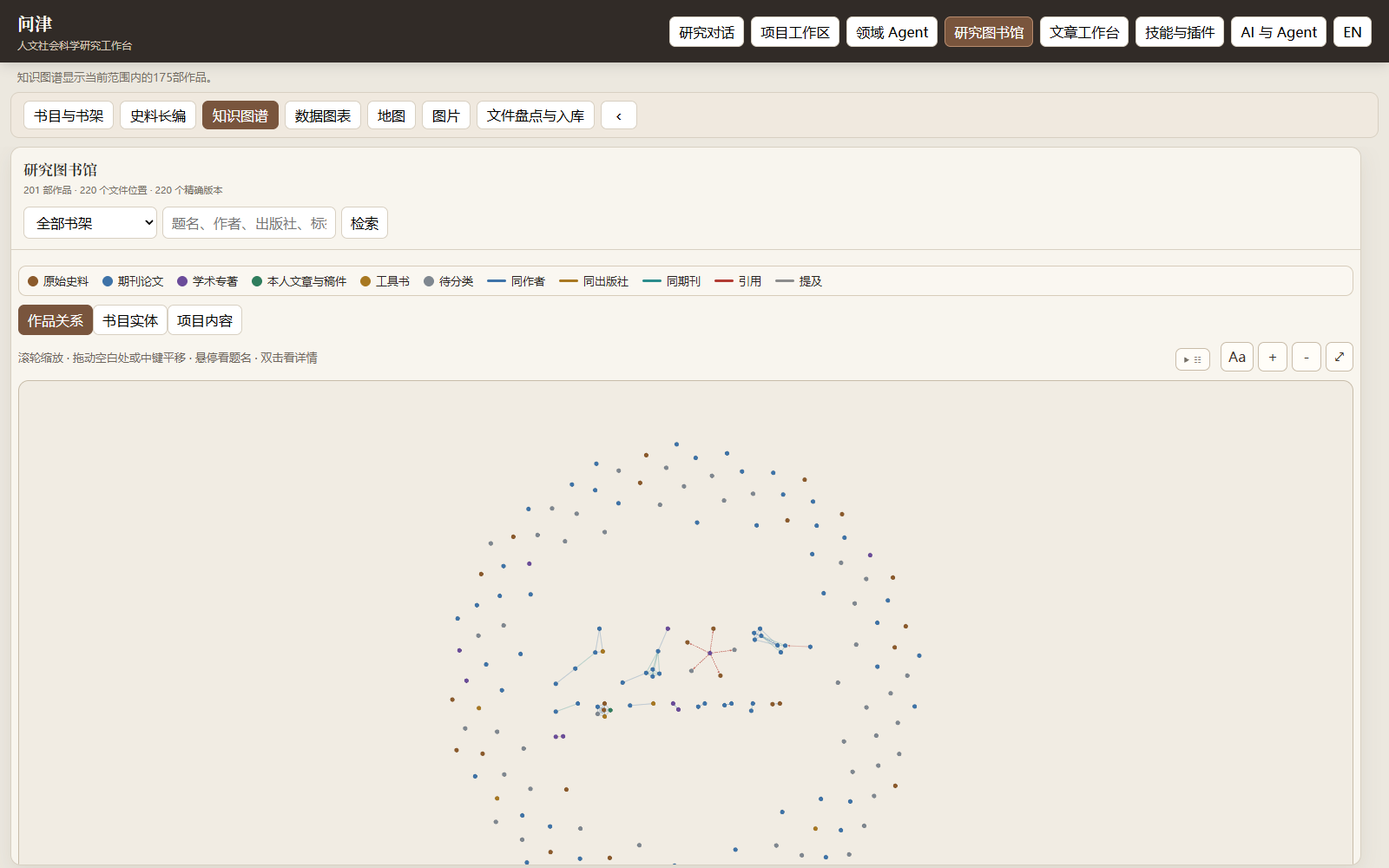
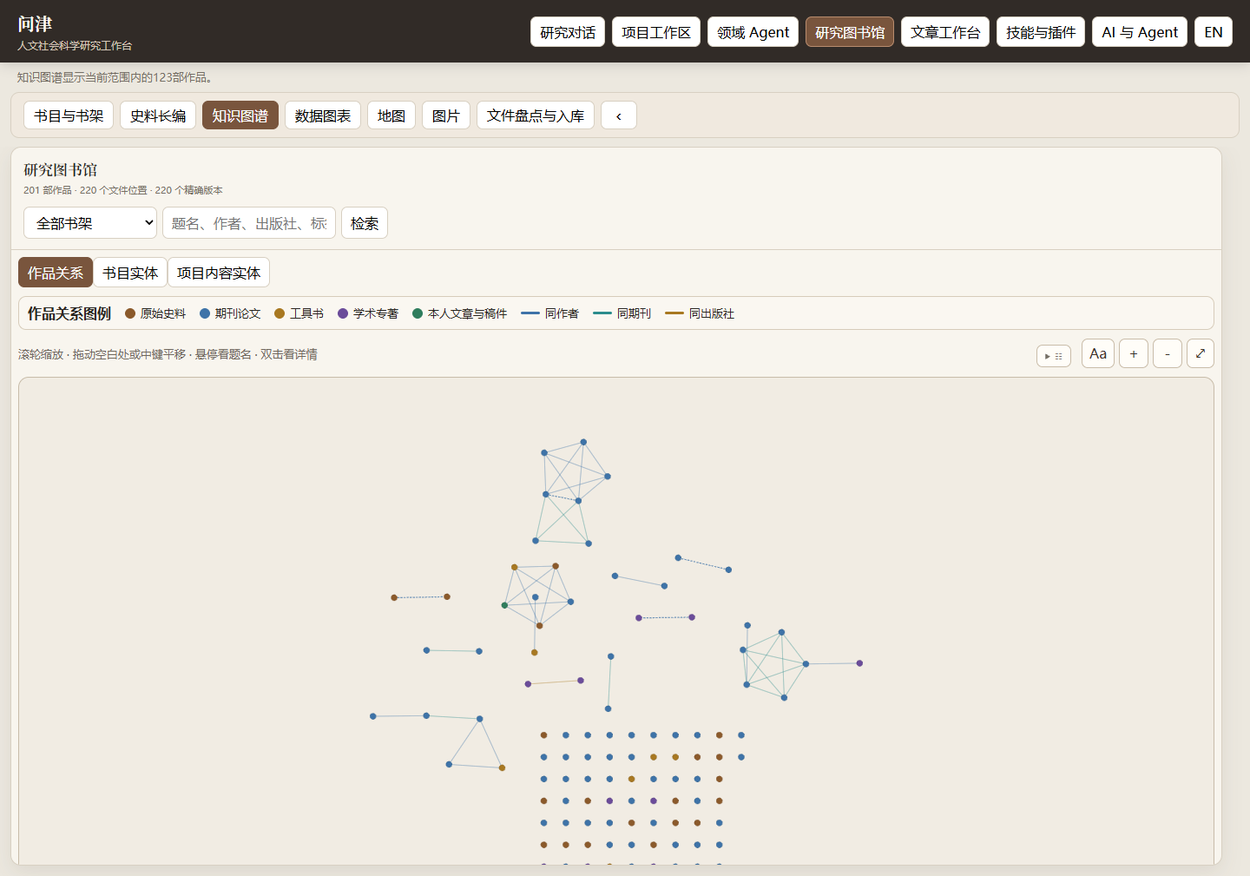
fix: separate bibliographic graph scopes

diff --git a/src/research_workbench/web_assets/app.js b/src/research_workbench/web_assets/app.js
@@ -458,22 +458,20 @@ function renderKnowledgeGraph(data){
   }
   if(!(data.literature_relations||[]).length)literature.append(Object.assign(document.createElement('p'),{className:'empty',textContent:english?'No registered work title was found in the current project note/reference zones.':'当前项目的脚注、尾注和参考文献区域尚未匹配到已登记作品题名。'}));
   const literatureDetails=document.createElement('details');literatureDetails.className='literature-relations-panel';const literatureSummary=document.createElement('summary');literatureSummary.textContent=english?`Literature-relation candidates (${(data.literature_relations||[]).length})`:`文献关系候选（${(data.literature_relations||[]).length}）`;literatureDetails.append(literatureSummary,literature);
-  if(!data.nodes.length){graph.append(Object.assign(document.createElement('p'),{className:'empty',textContent:english?'No bibliographic relation matches the current search.':'当前检索范围没有可显示的书目关系。'}));return;}
-  const legend=document.createElement('div');legend.className='graph-color-legend';
-  const presentCategories=new Set(data.nodes.map((node)=>node.graph_category));
-  const categoryLabels=english?{primary_sources:'Primary sources',academic_articles:'Articles',monographs:'Monographs',personal_manuscripts:'Personal papers',reading_notes:'Reading notes',reference_works:'Reference works',unclassified:'Unclassified'}:{primary_sources:'原始史料',academic_articles:'期刊论文',monographs:'学术专著',personal_manuscripts:'本人文章与稿件',reading_notes:'读书笔记',reference_works:'工具书',unclassified:'待分类'};
-  for(const [key,label] of Object.entries(categoryLabels))if(presentCategories.has(key))legend.append(Object.assign(document.createElement('span'),{className:`legend-node legend-${key}`,textContent:label}));
-  const presentRelations=new Set(data.edges.map((edge)=>edge.relation));
-  const relationLegend=english?{same_author:'Same author',same_publisher:'Same publisher',same_journal:'Same journal',cites:'Citation',uses_material_from:'Material use',reviews:'Review',translates:'Translation',mentions_work:'Mention'}:{same_author:'同作者',same_publisher:'同出版社',same_journal:'同期刊',cites:'引用',uses_material_from:'使用其材料',reviews:'评述',translates:'翻译',mentions_work:'提及'};
-  for(const [key,label] of Object.entries(relationLegend))if(presentRelations.has(key))legend.append(Object.assign(document.createElement('span'),{className:`legend-edge legend-${key}`,textContent:label}));graph.append(legend);
+  if(!data.nodes.length&&!(data.content_graph?.nodes||[]).length){graph.append(Object.assign(document.createElement('p'),{className:'empty',textContent:english?'No graph node matches the current search.':'当前检索范围没有可显示的图谱节点。'}));return;}
+  const legendCategoryLabels=english?{primary_sources:'Primary sources',academic_articles:'Articles',monographs:'Monographs',personal_manuscripts:'Personal papers',reading_notes:'Reading notes',reference_works:'Reference works',person:'Authors',organization:'Journals / publishers',year:'Years',material_type:'Material types',tag:'Tags / shelves',source:'Sources',page:'Pages',content:'Content blocks',event:'Approved events',entity:'Shared entities',claim:'Claims',evidence:'Verified evidence'}:{primary_sources:'原始史料',academic_articles:'期刊论文',monographs:'学术专著',personal_manuscripts:'本人文章与稿件',reading_notes:'读书笔记',reference_works:'工具书',person:'作者',organization:'期刊/出版社',year:'年份',material_type:'材料类型',tag:'标签/书架',source:'来源',page:'页面',content:'正文块',event:'已批准事件',entity:'共享实体',claim:'主张',evidence:'已核证据'};
+  const legendCategoryColors={primary_sources:'#8b5a2b',academic_articles:'#3e73a8',monographs:'#6b4c9a',personal_manuscripts:'#2f7d5d',reading_notes:'#b97879',reference_works:'#a87821',person:'#d06b4f',organization:'#d29c39',year:'#7f8790',material_type:'#8062a8',tag:'#4d8b71',source:'#4f7b95',page:'#7b8da5',content:'#6d9caf',event:'#a87821',entity:'#2f7d5d',claim:'#6b4c9a',evidence:'#b23b32'};
+  const legendRelationLabels=english?{same_author:'Same author',same_publisher:'Same publisher',same_journal:'Same journal',authored_by:'Authored by',published_by:'Published by',published_in_year:'Publication year',material_type:'Material type',tagged_as:'Tagged as',shelved_as:'Shelved as',cites:'Citation',uses_material_from:'Material use',reviews:'Review',translates:'Translation',mentions_work:'Mention',contains_page:'Contains page',contains_content:'Contains content',records_event:'Records event',belongs_to_case:'Case',dated:'Date',starts_at:'Start place',ends_at:'End place',investigates:'Topic',anchored_in:'Page anchor',has_evidence:'Evidence',linked_to:'Claim link'}:{same_author:'同作者',same_publisher:'同出版社',same_journal:'同期刊',authored_by:'作者',published_by:'期刊/出版社',published_in_year:'出版年',material_type:'材料类型',tagged_as:'标签',shelved_as:'书架',cites:'引用',uses_material_from:'使用其材料',reviews:'评述',translates:'翻译',mentions_work:'提及',contains_page:'包含页面',contains_content:'包含正文',records_event:'记载事件',belongs_to_case:'所属个案',dated:'时间',starts_at:'起点',ends_at:'终点',investigates:'调查对象',anchored_in:'原页锚点',has_evidence:'包含证据',linked_to:'主张关联'};
+  const legendRelationColors={same_author:'#3e73a8',same_publisher:'#a87821',same_journal:'#2b8c8c',authored_by:'#3e73a8',published_by:'#a87821',published_in_year:'#7c6f64',material_type:'#6b4c9a',tagged_as:'#7f8790',shelved_as:'#2f7d5d',cites:'#b23b32',uses_material_from:'#8b5a2b',reviews:'#d47521',translates:'#2b8c8c',mentions_work:'#8c8c8c',contains_page:'#7b8da5',contains_content:'#4f7b95',records_event:'#a87821',belongs_to_case:'#2f7d5d',dated:'#7c6f64',starts_at:'#2f7d5d',ends_at:'#2f7d5d',investigates:'#8062a8',anchored_in:'#8b5a2b',has_evidence:'#b23b32',linked_to:'#6b4c9a'};
+  const appendModeLegend=(target,mode,nodes,edges)=>{const legend=document.createElement('div');legend.className='graph-color-legend';legend.append(Object.assign(document.createElement('strong'),{textContent:english?({work:'Work-relation legend',entity:'Bibliographic-entity legend',content:'Project-content legend'}[mode]):({work:'作品关系图例',entity:'书目实体图例',content:'项目内容图例'}[mode])}));const categories=[...new Set(nodes.map(node=>node.graph_category||node.node_type))];for(const key of categories){const chip=document.createElement('span'),swatch=document.createElement('i');swatch.style.cssText=`display:inline-block;width:12px;height:12px;border-radius:50%;background:${legendCategoryColors[key]||'#7f8790'}`;chip.append(swatch,document.createTextNode(legendCategoryLabels[key]||key));legend.append(chip);}const relations=[...new Set(edges.map(edge=>edge.relation))];for(const key of relations){const chip=document.createElement('span'),swatch=document.createElement('i');swatch.style.cssText=`display:inline-block;width:22px;height:3px;border-radius:3px;background:${legendRelationColors[key]||'#aa9d8b'}`;chip.append(swatch,document.createTextNode(legendRelationLabels[key]||key));legend.append(chip);}target.append(legend);};
   const entityById=Object.fromEntries((data.entity_nodes||[]).map(node=>[node.node_id,node]));
   const revealLibraryDetail=()=>{state.libraryGraphAutoCollapsed=false;if($('libraryWorkbench').classList.contains('right-collapsed'))$('toggleLibraryDetail').click();};
   const openBibliographicNode=async(node,edgeSet=data.edges,nodeSet=byId)=>{if(node.work_id){await loadWork(node.work_id);revealLibraryDetail();return;}const relatedIds=new Set();for(const edge of edgeSet)if(edge.source_node_id===node.node_id)relatedIds.add(edge.target_node_id);else if(edge.target_node_id===node.node_id)relatedIds.add(edge.source_node_id);const panel=$('workDetail');panel.replaceChildren(card(`${node.node_type} · ${node.label}`,english?'Related registered works':'相关已登记书目'));for(const id of relatedIds){const related=nodeSet[id];if(related?.work_id)panel.append(actionButton(`↗ ${related.label}`,()=>loadWork(related.work_id),true));}revealLibraryDetail();};
   const compactContentLabels=english?{source:'Source',page:'Page',content:'Markdown content',event:'Approved event',entity:'Shared entity',claim:'Claim',evidence:'Verified evidence'}:{source:'来源',page:'页面',content:'Markdown内容',event:'已批准事件',entity:'共享实体',claim:'主张',evidence:'已核证据'};
   const openCompactContentNode=async(item)=>{const panel=$('workDetail');panel.replaceChildren(card(`${compactContentLabels[item.node_type]||item.node_type} · ${item.label}`,`${item.excerpt||''}\n${item.printed_page||item.physical_page||''}`));if(item.source_id)panel.append(actionButton(english?'Open source location':'打开所在史料位置',async()=>{await loadSource(item.source_id);if(item.page_id){const index=state.view.pages.findIndex((page)=>page.page_id===item.page_id);if(index>=0)state.pageIndex=index;}setMode('source');render();},true));revealLibraryDetail();};
-  const graphModes=document.createElement('div');graphModes.className='button-row graph-mode-switch';const workMode=actionButton(english?'Work relations':'作品关系',()=>{},true),entityMode=actionButton(english?'Bibliographic entities':'书目实体',()=>{}),contentMode=actionButton(english?'Project content':'项目内容',()=>{});graphModes.append(workMode,entityMode,contentMode);const graphHost=document.createElement('section');graphHost.className='bibliographic-graph-host';graph.append(graphModes,graphHost);
-  const drawMode=(mode)=>{graphHost.replaceChildren();workMode.classList.toggle('primary-inline',mode==='work');entityMode.classList.toggle('primary-inline',mode==='entity');contentMode.classList.toggle('primary-inline',mode==='content');const content=mode==='content',entity=mode==='entity',shownNodes=content?(data.content_graph?.nodes||[]):(entity?(data.entity_nodes||[]):data.nodes),shownEdges=content?(data.content_graph?.edges||[]):(entity?(data.entity_edges||[]):data.edges),lookup=entity?entityById:byId;return renderInteractiveGraph(graphHost,shownNodes,shownEdges,{background:content?'#e5edf0':(entity?'#e8edf0':'#f1ece3'),className:content?'content-cytoscape-stage':'',onOpen:(node)=>(content?openCompactContentNode(node):openBibliographicNode(node,shownEdges,lookup)).catch((error)=>notice(error.message,true))});};workMode.onclick=()=>drawMode('work');entityMode.onclick=()=>drawMode('entity');contentMode.onclick=()=>drawMode('content');
-  if(drawMode('work'))return;
+  const graphModes=document.createElement('div');graphModes.className='button-row graph-mode-switch';const workMode=actionButton(english?'Work relations':'作品关系',()=>{},true),entityMode=actionButton(english?'Bibliographic entities':'书目实体',()=>{}),contentMode=actionButton(english?'Project content entities':'项目内容实体',()=>{});graphModes.append(workMode,entityMode,contentMode);const graphHost=document.createElement('section');graphHost.className='bibliographic-graph-host';graph.append(graphModes,graphHost);
+  const drawMode=(mode)=>{graphHost.replaceChildren();workMode.classList.toggle('primary-inline',mode==='work');entityMode.classList.toggle('primary-inline',mode==='entity');contentMode.classList.toggle('primary-inline',mode==='content');const content=mode==='content',entity=mode==='entity',shownNodes=content?(data.content_graph?.nodes||[]):(entity?(data.entity_nodes||[]):data.nodes),shownEdges=content?(data.content_graph?.edges||[]):(entity?(data.entity_edges||[]):data.edges),lookup=entity?entityById:byId;appendModeLegend(graphHost,mode,shownNodes,shownEdges);return renderInteractiveGraph(graphHost,shownNodes,shownEdges,{background:content?'#e5edf0':(entity?'#e8edf0':'#f1ece3'),className:content?'content-cytoscape-stage':'',onOpen:(node)=>(content?openCompactContentNode(node):openBibliographicNode(node,shownEdges,lookup)).catch((error)=>notice(error.message,true))});};workMode.onclick=()=>drawMode('work');entityMode.onclick=()=>drawMode('entity');contentMode.onclick=()=>drawMode('content');
+  drawMode('work');return;
   {
   const typeOrder=['work','person','year','organization','material_type','tag','source','page','content','event','entity','claim','evidence'];
   const typeLabels=english?{work:'Works',person:'Authors',year:'Years',organization:'Publishers',material_type:'Material types',tag:'Shelves / tags',source:'Sources',page:'Pages',content:'Markdown content',event:'Events',entity:'Shared entities',claim:'Claims',evidence:'Evidence'}:{work:'作品',person:'作者',year:'年代',organization:'出版者',material_type:'材料类型',tag:'书架/标签',source:'来源',page:'页面',content:'Markdown内容',event:'事件',entity:'共享实体',claim:'主张',evidence:'证据'};

diff --git a/src/research_workbench/library.py b/src/research_workbench/library.py
@@ -33,6 +33,10 @@ LIBRARY_SHELVES = {
     "monographs": "学术专著", "personal_manuscripts": "个人论文与稿件",
     "reading_notes": "读书笔记", "reference_works": "工具书与目录", "unclassified": "待分类",
 }
+GRAPH_WORK_SHELVES = frozenset({
+    "primary_sources", "academic_articles", "monographs",
+    "personal_manuscripts", "reference_works",
+})
 SUGGESTED_SHELVES = {
     "archival_source": "primary_sources",
     "article": "academic_articles",
@@ -1449,12 +1453,18 @@ def _literature_relation_candidates(
     project_root: Path, library_connection: Any, query: str = "", limit: int = 300,
 ) -> list[dict[str, Any]]:
     works = [dict(row) for row in library_connection.execute(
-        """SELECT w.work_id, w.canonical_title, w.author FROM works w
+        """SELECT w.work_id, w.canonical_title, w.author,
+                  COALESCE((
+                      SELECT substr(t.name,7) FROM work_tags wt JOIN tags t ON t.tag_id=wt.tag_id
+                      WHERE wt.work_id=w.work_id AND t.name LIKE 'shelf:%' LIMIT 1
+                  ),'unclassified') AS shelf
+           FROM works w
            WHERE NOT EXISTS (
              SELECT 1 FROM work_tags wt JOIN tags t ON t.tag_id=wt.tag_id
              WHERE wt.work_id=w.work_id AND t.name='shelf:reading_notes'
            ) ORDER BY w.updated_at DESC"""
-    ).fetchall() if len(str(row["canonical_title"]).strip()) >= 4]
+    ).fetchall() if len(str(row["canonical_title"]).strip()) >= 4
+        and row["shelf"] in GRAPH_WORK_SHELVES]
     work_lookup = {item["work_id"]: item for item in works}
     with connect(project_root) as connection:
         blocks = connection.execute(
@@ -1600,30 +1610,26 @@ def library_graph(project_root: Path, query: str = "", limit: int = 200,
             work_ids = [row["work_id"] for row in connection.execute(
                 "SELECT w.work_id FROM works w ORDER BY w.updated_at DESC LIMIT ?", (limit,)
             ).fetchall()]
-        if work_ids and not include_reading_notes:
+        if work_ids:
             placeholders = ",".join("?" for _ in work_ids)
-            reading_notes = {row["work_id"] for row in connection.execute(
-                f"""SELECT DISTINCT wt.work_id FROM work_tags wt JOIN tags t ON t.tag_id=wt.tag_id
-                    WHERE t.name='shelf:reading_notes' AND wt.work_id IN ({placeholders})""",
+            shelves = {row["work_id"]: row["shelf"] for row in connection.execute(
+                f"""SELECT w.work_id, COALESCE((
+                           SELECT substr(t.name,7) FROM work_tags wt JOIN tags t ON t.tag_id=wt.tag_id
+                           WHERE wt.work_id=w.work_id AND t.name LIKE 'shelf:%' LIMIT 1
+                       ),'unclassified') AS shelf
+                    FROM works w WHERE w.work_id IN ({placeholders})""",
                 tuple(work_ids),
             )}
-            work_ids = [work_id for work_id in work_ids if work_id not in reading_notes]
+            allowed_shelves = set(GRAPH_WORK_SHELVES)
+            if include_reading_notes:
+                allowed_shelves.add("reading_notes")
+            work_ids = [work_id for work_id in work_ids if shelves.get(work_id) in allowed_shelves]
         if not work_ids:
-            fallback_nodes = [
-                {"node_id": item["node_id"], "node_type": item["node_type"], "label": item["label"],
-                 "origin": item.get("origin", "project_content"), "work_id": ""}
-                for item in content_graph["nodes"][:limit]
-            ]
-            fallback_ids = {item["node_id"] for item in fallback_nodes}
-            fallback_edges = [
-                item for item in content_graph["edges"]
-                if item["source_node_id"] in fallback_ids and item["target_node_id"] in fallback_ids
-            ]
             return {
-                "nodes": fallback_nodes, "edges": fallback_edges, "work_cards": [], "content_graph": content_graph,
-                "entity_nodes": fallback_nodes, "entity_edges": fallback_edges,
+                "nodes": [], "edges": [], "work_cards": [], "content_graph": content_graph,
+                "entity_nodes": [], "entity_edges": [],
                 "literature_relations": literature_relations,
-                "node_count": len(fallback_nodes), "edge_count": len(fallback_edges),
+                "node_count": 0, "edge_count": 0,
                 "backfilled_work_count": len(missing_work_ids), "query": query.strip(),
             }
         normalized_ids = [work_id.casefold() for work_id in work_ids]
@@ -1691,12 +1697,16 @@ def library_graph(project_root: Path, query: str = "", limit: int = 200,
                 if node_type == "person":
                     relation = "same_author"
                 elif node_type == "organization":
-                    relation = (
-                        "same_journal"
-                        if work_nodes[source_id]["graph_category"] == "academic_articles"
-                        and work_nodes[target_id]["graph_category"] == "academic_articles"
-                        else "same_publisher"
-                    )
+                    source_category = work_nodes[source_id]["graph_category"]
+                    target_category = work_nodes[target_id]["graph_category"]
+                    if source_category == target_category == "academic_articles":
+                        relation = "same_journal"
+                    elif source_category == target_category and source_category in {
+                        "primary_sources", "monographs", "reference_works",
+                    }:
+                        relation = "same_publisher"
+                    else:
+                        continue
                 else:
                     continue
                 edge_id = "KGE_" + hashlib.sha256(f"{source_id}\0{relation}\0{target_id}".encode("utf-8")).hexdigest()[:24]

diff --git a/tests/test_m5.py b/tests/test_m5.py
@@ -323,10 +323,52 @@ Shen Hou, “Nature's Tonic: Beer, Ecology, and Urbanization in a Chinese City, 
         first_work, _ = self._approve_one(first); second_work, _ = self._approve_one(second)
         update_work(self.project, first_work, {"canonical_title": "第一篇", "author": "甲；乙"}, [], self.library)
         update_work(self.project, second_work, {"canonical_title": "第二篇", "author": "甲"}, [], self.library)
+        move_work_to_shelf(self.project, first_work, "academic_articles", self.library)
+        move_work_to_shelf(self.project, second_work, "academic_articles", self.library)
         graph = library_graph(self.project, library_root=self.library)
         self.assertTrue(any(edge["relation"] == "same_author" for edge in graph["edges"]))
         self.assertTrue({"甲", "乙"}.issubset({node["label"] for node in graph["entity_nodes"] if node["node_type"] == "person"}))
         self.assertGreaterEqual(sum(edge["relation"] == "authored_by" for edge in graph["entity_edges"]), 3)
+
+    def test_shared_organization_does_not_collapse_an_article_and_book_relation(self) -> None:
+        article = self.materials / "article.md"; book = self.materials / "book.md"
+        article.write_text("# 第一篇论文\n\n历史论文。" * 20, encoding="utf-8")
+        book.write_text("# 第一部专著\n\n历史专著。" * 20, encoding="utf-8")
+        article_work, _ = self._approve_one(article); book_work, _ = self._approve_one(book)
+        update_work(
+            self.project, article_work,
+            {"canonical_title": "第一篇论文", "publisher": "共同出版机构", "publication_year": "2024"},
+            [], self.library,
+        )
+        update_work(
+            self.project, book_work,
+            {"canonical_title": "第一部专著", "publisher": "共同出版机构", "publication_year": "2024"},
+            [], self.library,
+        )
+        move_work_to_shelf(self.project, article_work, "academic_articles", self.library)
+        move_work_to_shelf(self.project, book_work, "monographs", self.library)
+        graph = library_graph(self.project, library_root=self.library)
+        node_ids = {node["work_id"]: node["node_id"] for node in graph["nodes"]}
+        pair = {node_ids[article_work], node_ids[book_work]}
+        self.assertFalse(any(
+            {edge["source_node_id"], edge["target_node_id"]} == pair
+            and edge["relation"] in {"same_journal", "same_publisher"}
+            for edge in graph["edges"]
+        ))
+        organization = next(
+            node for node in graph["entity_nodes"]
+            if node["node_type"] == "organization" and node["label"] == "共同出版机构"
+        )
+        self.assertEqual(
+            sum(
+                edge["relation"] == "published_by" and edge["target_node_id"] == organization["node_id"]
+                for edge in graph["entity_edges"]
+            ),
+            2,
+        )
+        self.assertIn("2024", {
+            node["label"] for node in graph["entity_nodes"] if node["node_type"] == "year"
+        })
 
     def test_author_aliases_preserve_raw_names_but_share_one_entity(self) -> None:
         first = self.materials / "english-name.md"; second = self.materials / "chinese-name.md"
@@ -335,6 +377,8 @@ Shen Hou, “Nature's Tonic: Beer, Ecology, and Urbanization in a Chinese City, 
         first_work, _ = self._approve_one(first); second_work, _ = self._approve_one(second)
         update_work(self.project, first_work, {"canonical_title": "English work", "author": "Shen Hou"}, [], self.library)
         update_work(self.project, second_work, {"canonical_title": "中文作品", "author": "侯深"}, [], self.library)
+        move_work_to_shelf(self.project, first_work, "academic_articles", self.library)
+        move_work_to_shelf(self.project, second_work, "academic_articles", self.library)
         register_author_alias(self.library, "Shen Hou", "侯深", "tester", "verified bilingual byline")
         graph = library_graph(self.project, library_root=self.library)
         self.assertTrue(any(edge["relation"] == "same_author" for edge in graph["edges"]))
@@ -487,10 +531,12 @@ Shen Hou, “Nature's Tonic: Beer, Ecology, and Urbanization in a Chinese City, 
         self.assertEqual({work["shelf"] for work in works}, set(shelves.values()))
         graph = library_graph(self.project, library_root=self.library)
         self.assertNotIn("notes", {node["label"] for node in graph["nodes"] if node["node_type"] == "work"})
+        self.assertNotIn("unknown", {node["label"] for node in graph["nodes"] if node["node_type"] == "work"})
         self.assertEqual({node["node_type"] for node in graph["nodes"]}, {"work"})
         self.assertIn("academic_articles", {node.get("graph_category") for node in graph["nodes"]})
         opted_in = library_graph(self.project, library_root=self.library, include_reading_notes=True)
         self.assertIn("notes", {node["label"] for node in opted_in["nodes"] if node["node_type"] == "work"})
+        self.assertNotIn("unknown", {node["label"] for node in opted_in["nodes"] if node["node_type"] == "work"})
         self.assertIn("reading_notes", {node.get("graph_category") for node in opted_in["nodes"]})
 
     def test_same_clean_title_registers_one_work_with_multiple_files(self) -> None:

diff --git a/tests/test_wenjin_v01.py b/tests/test_wenjin_v01.py
@@ -108,7 +108,7 @@ class WenjinV01Tests(unittest.TestCase):
         self.assertIn("sparseLargeGraph?.55:.65", script)
         self.assertIn("name:'breadthfirst'", script)
         self.assertIn("golden=Math.PI", script)
-        self.assertIn("if(drawMode('work'))return", script)
+        self.assertIn("drawMode('work');return", script)
         self.assertNotIn("placeIsolated", script)
         package = (root / "pyproject.toml").read_text(encoding="utf-8")
         self.assertIn('"web_assets/vendor/*.js"', package)
@@ -299,7 +299,10 @@ class WenjinV01Tests(unittest.TestCase):
         self.assertIn("edge.composite", script)
         self.assertIn("作品关系", script)
         self.assertIn("书目实体", script)
-        self.assertIn("项目内容", script)
+        self.assertIn("项目内容实体", script)
+        self.assertIn("作品关系图例", script)
+        self.assertIn("书目实体图例", script)
+        self.assertIn("项目内容图例", script)
         self.assertIn("rawEdges", script)
         self.assertIn("graph-work-cards", script)
         self.assertIn("Open project source pages", script)

diff --git a/docs/USER_MANUAL_ZH.md b/docs/USER_MANUAL_ZH.md
@@ -122,9 +122,9 @@ DeepSeek等兼容接口使用Responses API；Ollama使用Codex内置本地provid
 
 系统把“作品”“版本”“文件”“文件的精确版本”分开。文件指纹只用来判断两个文件是否完全相同；修改一个字会形成新的文件版本，但不一定是另一部作品。
 
-当前图书馆有七个可人工调整的书架：“原始史料”“学术论文”“学术专著”“个人论文与稿件”“读书笔记”“工具书与目录”“待分类”。移动书架只改变整理位置，不改变材料能否引用，也不移动电脑上的原文件。读书笔记默认不进入知识图谱；只有用户明确要求时，Agent/API才在当前查询中临时纳入。
+当前图书馆有七个可人工调整的书架：“原始史料”“学术论文”“学术专著”“个人论文与稿件”“读书笔记”“工具书与目录”“待分类”。移动书架只改变整理位置，不改变材料能否引用，也不移动电脑上的原文件。读书笔记默认不进入知识图谱，待分类文件在完成书目判断前也不进入；只有用户明确要求时，Agent/API才在当前查询中临时纳入读书笔记。
 
-“知识图谱”包含三个可切换视图：“作品关系”显示全部作品以及同作者、同出版社、同期刊、引用、材料使用、评述、翻译和提及等投影关系；“书目实体”展开作品、作者、期刊/出版社、年份和材料类型；“项目内容”显示来源、页面、Markdown文本、事件、主张与证据。图谱按规模和结构选择COSE、fCoSE或层级布局，有关系的节点自然聚集，无关系作品散布外围。可以按题名、作者、出版者、标签或预览正文中的词语检索；滚轮缩放，拖动空白处或中键平移，悬停显示题名，单击聚焦相邻节点，双击才打开“作品与版本”或来源详情。已经加入当前项目的作品还能直接回到该文献原页。
+“知识图谱”包含三个可切换视图：“作品关系”只显示已经明确分类的作品以及同作者、同出版社、同期刊、引用、材料使用、评述、翻译和提及等投影关系；“书目实体”展开作品、作者、期刊/出版社、年份和材料类型；“项目内容实体”显示来源、页面、Markdown文本、事件、主张与证据。三种视图各有独立图例。期刊论文与专著即使登记了同一机构，也不会自动连成“同出版社”。图谱按规模和结构选择COSE、fCoSE或层级布局，有关系的节点自然聚集，无关系作品散布外围。可以按题名、作者、出版者、标签或预览正文中的词语检索；滚轮缩放，拖动空白处或中键平移，悬停显示题名，单击聚焦相邻节点，双击才在右侧打开“作品与版本”或来源详情。已经加入当前项目的作品还能直接回到该文献原页。
 
 图谱中的内容预览只来自入库时有限检查的页面，用于判断一本书是否值得继续读、比较哪个版本更适合当前问题。它不表示全文已经读完，也不能直接作为论文证据。模型推测的人物关系、因果和事件不会自动进入图谱。
 

diff --git a/docs/RELEASE_NOTES_0_1_3.md b/docs/RELEASE_NOTES_0_1_3.md
@@ -16,11 +16,11 @@
 
 知识图谱页只保留画布和必要控制，不再向下堆叠作品卡、Markdown卡与关系清单。
 
-1. **作品关系**：显示除读书笔记外的已登记作品；只有用户明确要求时，Agent/API才临时纳入读书笔记。不同材料类别分色；同作者、同出版社、同期刊、引用、材料使用、评述、翻译和提及关系分别着色，有向知识关系带箭头。无关系作品散布外围，有关系作品按力导向聚集。
+1. **作品关系**：默认只显示已经归入原始史料、学术论文、学术专著、本人文章与稿件或工具书的作品。读书笔记仅在用户明确要求时临时纳入，待分类文件在完成书目判断前不进入图谱。不同材料类别分色；同作者、同出版社、同期刊、引用、材料使用、评述、翻译和提及关系分别着色，有向知识关系带箭头。期刊论文与专著即使登记了同一机构，也不会被误折叠为“同出版社”关系。
 2. **书目实体**：展开作品、作者、期刊/出版社、年份和材料类型。中外文作者别名只有经过人工核定才合并。
-3. **项目内容**：显示来源、页面、Markdown文本、事件、共享实体、主张和证据，继续保留来源页锚点。
+3. **项目内容实体**：显示来源、页面、Markdown文本、事件、共享实体、主张和证据，继续保留来源页锚点。
 
-单击节点只聚焦邻居；连续双击才在右侧打开与图书馆一致的作品卡或来源卡。画布支持滚轮缩放、空白处或中键平移、题名悬浮/常显、节点与关系筛选。0.1.3在真实图书馆上验收了默认175个作品节点、370个书目实体节点和732个项目内容节点，三种视图均未出现20像素以内重叠；明确要求纳入读书笔记时，作品节点增至201个。
+作品关系、书目实体和项目内容实体各有独立图例，不再共用一套节点或关系说明。单击节点只聚焦邻居；连续双击才在右侧打开与图书馆一致的作品卡或来源卡。画布支持滚轮缩放、空白处或中键平移、题名悬浮/常显、节点与关系筛选。
 
 ## 界面与项目回跳
 
@@ -36,11 +36,12 @@
 - Windows安装包自带冻结Python核心、Codex app-server与桌面运行时；普通用户不需要另装Python、Node.js、PowerShell 7、Rust或Codex；
 - DeepSeek Responses API是主要实测模型通道；Ollama兼容可用，但小模型是否稳定选择工具仍取决于模型本身；
 - 自包含领域Agent继续通过MCP保持可移植性，私人灾害史Agent和研究数据不进入公开包；
+- Codex后端与旧运行器共用自然语言领域路由，普通表述命中领域任务后会直接委派已安装领域Agent；
 - 当前只发布Windows 10/11 x64，安装程序尚未代码签名，无自动更新，macOS尚未真机构建。
 
 ## 验收
 
-- Python全量回归：420项通过；
+- Python全量回归：422项通过；
 - JavaScript语法检查通过；
 - 主Agent自然语言模糊检索与采用通过；
 - 作品关系、书目实体、项目内容三种图谱真实数据验收通过；

diff --git a/docs/USER_MANUAL_EN.md b/docs/USER_MANUAL_EN.md
@@ -123,9 +123,9 @@ Seven editable shelves are provided:
 
 Changing a shelf does not move the original file or change citation eligibility.
 
-Reading notes are excluded from every graph by default. They are included only for a query in which the researcher explicitly requests them; this does not change their shelf or evidence status.
+Reading notes are excluded from every graph by default, and unclassified files remain outside the graph until their bibliographic status is decided. Reading notes are included only for a query in which the researcher explicitly requests them; this does not change their shelf or evidence status.
 
-The **Knowledge Graph** has three switchable views. **Work relations** shows every registered work and projected same-author, same-journal, same-publisher, citation, material-use, review, translation, and mention relations. **Bibliographic entities** expands works, authors, journals or publishers, years, and material types. **Project content** shows sources, pages, Markdown blocks, events, entities, claims, and evidence. The graph chooses COSE, fCoSE, or a hierarchical layout according to graph size and structure. Click once to focus a neighborhood; double-click to open the same Works and versions card used by the catalog. A work already adopted into the current project can open that exact project source directly.
+The **Knowledge Graph** has three switchable views with separate legends. **Work relations** shows bibliographically classified works and projected same-author, same-journal, same-publisher, citation, material-use, review, translation, and mention relations. An article and a monograph do not gain a same-publisher edge merely because the same organization appears in both records. **Bibliographic entities** expands works, authors, journals or publishers, years, and material types. **Project-content entities** shows sources, pages, Markdown blocks, events, entities, claims, and evidence. The graph chooses COSE, fCoSE, or a hierarchical layout according to graph size and structure. Click once to focus a neighborhood; double-click to open the same Works and versions card in the right sidebar. A work already adopted into the current project can open that exact project source directly.
 
 The preview comes from the limited pages inspected during intake. Use it to decide what deserves further reading or which version fits the question. It does not mean that the complete work has been read and it is not evidence. Model-inferred causation, interpersonal relations, and events are not automatically promoted into the graph.
 

diff --git a/README.md b/README.md
@@ -47,7 +47,9 @@
 4. 自动分类属于整理建议，随时可以在书目详情中人工调整书架；
 5. 入库不等于材料已经读完、可引用或成为正式证据。
 
-当前书架包括原始史料、学术论文、学术专著、个人论文与稿件、读书笔记、工具书与目录、待分类。读书笔记默认不进入知识图谱；只有用户明确要求时，Agent/API才在当前查询中临时纳入。书目实体与项目内容在同一画布中切换，不混入默认作品图。
+当前书架包括原始史料、学术论文、学术专著、个人论文与稿件、读书笔记、工具书与目录、待分类。读书笔记默认不进入知识图谱，待分类文件在完成书目判断前也不进入；只有用户明确要求时，Agent/API才在当前查询中临时纳入读书笔记。作品关系、书目实体与项目内容实体使用各自的节点、关系和图例，不再混用。
+
+下面是个人测试库生成的界面示例；节点数量随用户实际入库和分类情况变化。
 
 ![知识图谱、作品内容预览与项目回跳](docs/screenshots/wenjin-knowledge-graph-zh.png)
 

diff --git a/README_EN.md b/README_EN.md
@@ -50,7 +50,7 @@ Inventory and registration are separate operations:
 4. Suggested shelves remain editable.
 5. Registration does not mean that a work has been read, is citable, or has become formal evidence.
 
-The built-in shelves are Primary Sources, Articles, Monographs, Personal Papers and Drafts, Reading Notes, Reference Works and Catalogs, and Unclassified. Reading notes are excluded from every graph by default and are included only when the researcher explicitly requests them for the current query.
+The built-in shelves are Primary Sources, Articles, Monographs, Personal Papers and Drafts, Reading Notes, Reference Works and Catalogs, and Unclassified. Reading notes are excluded from every graph by default, and unclassified files stay outside the graph until their bibliographic status is decided. Reading notes are included only when the researcher explicitly requests them for the current query. Work relations, bibliographic entities, and project-content entities use separate node sets, relation sets, and legends.
 
 ## Agent access modes
 
